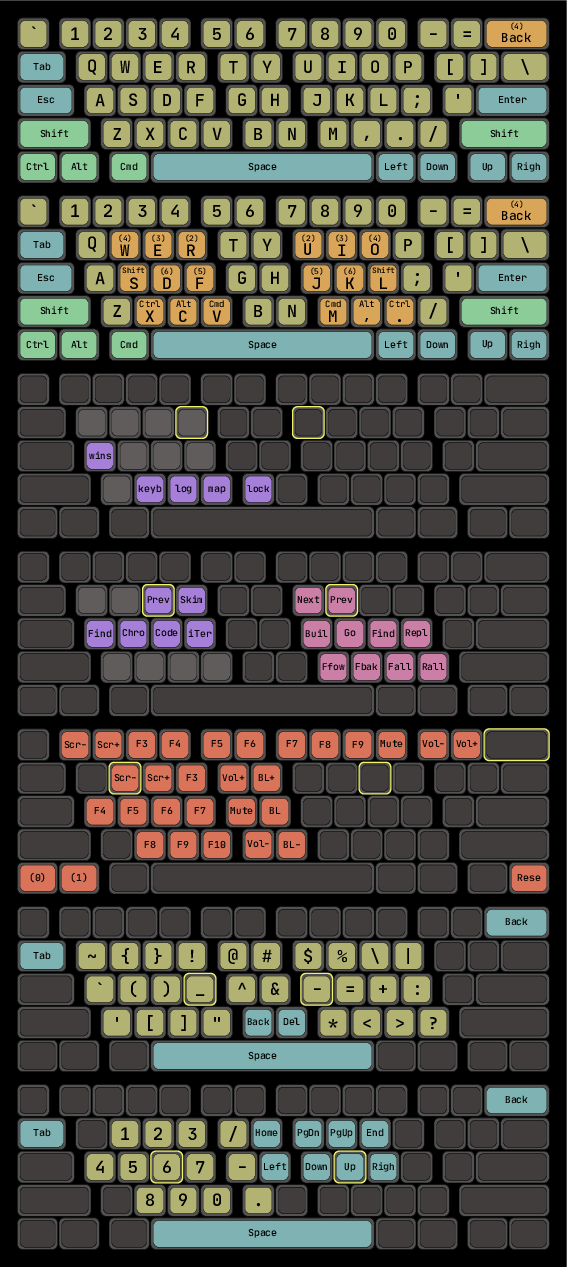
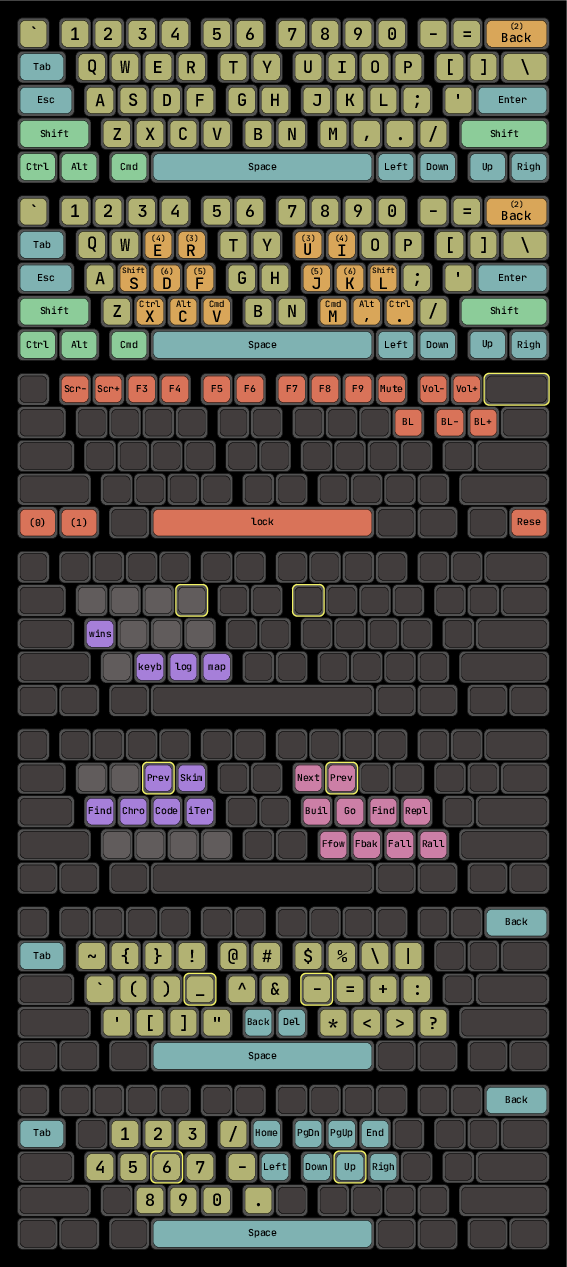
about to switch number layout

diff --git a/keyboards/fc660c/keymaps/syzygies/keymap.c b/keyboards/fc660c/keymaps/syzygies/keymap.c
@@ -5,58 +5,58 @@
 const uint16_t PROGMEM keymaps[][MATRIX_ROWS][MATRIX_COLS] = {
   // Safety
   [0] = LAYOUT(
-    KC_GRV  , KC_1       , KC_2         , KC_3         , KC_4         , KC_5        , KC_6    , KC_7          , KC_8            , KC_9           , KC_0       , KC_MINS     , KC_EQL    , LT(4,KC_BSPC) , KC__MUTE ,
-    KC_TAB  , KC_Q       , KC_W         , KC_E         , KC_R         , KC_T        , KC_Y    , KC_U          , KC_I            , KC_O           , KC_P       , KC_LBRC     , KC_RBRC   , KC_BSLS       , KC_DEL   ,
-    KC_ESC  , KC_A       , KC_S         , KC_D         , KC_F         , KC_G        , KC_H    , KC_J          , KC_K            , KC_L           , KC_SCLN    , KC_QUOT     , KC_ENT    ,
-    KC_LSFT , KC_Z       , KC_X         , KC_C         , KC_V         , KC_B        , KC_N    , KC_M          , KC_COMM         , KC_DOT         , KC_SLSH    , KC_RSFT     , KC_UP     ,
-    KC_LCTL , KC_LALT    , KC_LGUI      , KC_SPC       , KC_RGUI      , KC_RALT     , KC_RCTL , KC_LEFT       , KC_DOWN         , KC_RGHT        
+    KC_GRV  , KC_1       , KC_2         , KC_3         , KC_4         , KC_5    , KC_6    , KC_7          , KC_8            , KC_9           , KC_0       , KC_MINS     , KC_EQL    , LT(2,KC_BSPC) , KC__MUTE ,
+    KC_TAB  , KC_Q       , KC_W         , KC_E         , KC_R         , KC_T    , KC_Y    , KC_U          , KC_I            , KC_O           , KC_P       , KC_LBRC     , KC_RBRC   , KC_BSLS       , KC_DEL   ,
+    KC_ESC  , KC_A       , KC_S         , KC_D         , KC_F         , KC_G    , KC_H    , KC_J          , KC_K            , KC_L           , KC_SCLN    , KC_QUOT     , KC_ENT    ,
+    KC_LSFT , KC_Z       , KC_X         , KC_C         , KC_V         , KC_B    , KC_N    , KC_M          , KC_COMM         , KC_DOT         , KC_SLSH    , KC_RSFT     , KC_UP     ,
+    KC_LCTL , KC_LALT    , KC_LGUI      , KC_SPC       , KC_RGUI      , KC_RALT , KC_RCTL , KC_LEFT       , KC_DOWN         , KC_RGHT        
   ),
   // Base
   [1] = LAYOUT(
-    KC_GRV  , KC_1       , KC_2         , KC_3         , KC_4         , KC_5        , KC_6    , KC_7          , KC_8            , KC_9           , KC_0       , KC_MINS     , KC_EQL    , LT(4,KC_BSPC) , KC__MUTE ,
-    KC_TAB  , KC_Q       , LT(4,KC_W)   , LT(3,KC_E)   , LT(2,KC_R)   , KC_T        , KC_Y    , LT(2,KC_U)    , LT(3,KC_I)      , LT(4,KC_O)     , KC_P       , KC_LBRC     , KC_RBRC   , KC_BSLS       , KC_DEL   ,
-    KC_ESC  , KC_A       , LSFT_T(KC_S) , LT(6,KC_D)   , LT(5,KC_F)   , KC_G        , KC_H    , LT(5,KC_J)    , LT(6,KC_K)      , RSFT_T(KC_L)   , KC_SCLN    , KC_QUOT     , KC_ENT    ,
-    KC_LSFT , KC_Z       , LCTL_T(KC_X) , LALT_T(KC_C) , LGUI_T(KC_V) , KC_B        , KC_N    , RGUI_T(KC_M)  , RALT_T(KC_COMM) , RCTL_T(KC_DOT) , KC_SLSH    , KC_RSFT     , KC_UP     ,
-    KC_LCTL , KC_LALT    , KC_LGUI      , KC_SPC       , KC_RGUI      , KC_RALT     , KC_RCTL , KC_LEFT       , KC_DOWN         , KC_RGHT        
-  ),
-  // RU
-  [2] = LAYOUT(
-    XXXXXXX , XXXXXXX    , XXXXXXX      , XXXXXXX      , XXXXXXX      , XXXXXXX     , XXXXXXX , XXXXXXX       , XXXXXXX         , XXXXXXX        , XXXXXXX    , XXXXXXX     , XXXXXXX   , XXXXXXX       , XXXXXXX  ,
-    XXXXXXX , MEH(KC_Q)  , MEH(KC_W)    , MEH(KC_E)    , MEH(KC_R)    , XXXXXXX     , XXXXXXX , XXXXXXX       , XXXXXXX         , XXXXXXX        , XXXXXXX    , XXXXXXX     , XXXXXXX   , XXXXXXX       , XXXXXXX  ,
-    XXXXXXX , MEH(KC_A)  , MEH(KC_S)    , MEH(KC_D)    , MEH(KC_F)    , XXXXXXX     , XXXXXXX , XXXXXXX       , XXXXXXX         , XXXXXXX        , XXXXXXX    , XXXXXXX     , XXXXXXX   ,
-    XXXXXXX , MEH(KC_Z)  , MEH(KC_X)    , MEH(KC_C)    , MEH(KC_V)    , MEH(KC_B)   , XXXXXXX , XXXXXXX       , XXXXXXX         , XXXXXXX        , XXXXXXX    , XXXXXXX     , XXXXXXX   ,
-    XXXXXXX , XXXXXXX    , XXXXXXX      , XXXXXXX      , XXXXXXX      , XXXXXXX     , XXXXXXX , XXXXXXX       , XXXXXXX         , XXXXXXX        
-  ),
-  // EI
-  [3] = LAYOUT(
-    XXXXXXX , XXXXXXX    , XXXXXXX      , XXXXXXX      , XXXXXXX      , XXXXXXX     , XXXXXXX , XXXXXXX       , XXXXXXX         , XXXXXXX        , XXXXXXX    , XXXXXXX     , XXXXXXX   , XXXXXXX       , XXXXXXX  ,
-    XXXXXXX , HYPR(KC_Q) , HYPR(KC_W)   , HYPR(KC_E)   , HYPR(KC_R)   , XXXXXXX     , XXXXXXX , S(G(KC_RBRC)) , S(G(KC_LBRC))   , XXXXXXX        , XXXXXXX    , XXXXXXX     , XXXXXXX   , XXXXXXX       , XXXXXXX  ,
-    XXXXXXX , HYPR(KC_A) , HYPR(KC_S)   , HYPR(KC_D)   , HYPR(KC_F)   , XXXXXXX     , XXXXXXX , SCMD(KC_B)    , G(KC_P)         , G(KC_F)        , A(G(KC_F)) , XXXXXXX     , XXXXXXX   ,
-    XXXXXXX , HYPR(KC_Z) , HYPR(KC_X)   , HYPR(KC_C)   , HYPR(KC_V)   , XXXXXXX     , XXXXXXX , G(KC_G)       , S(G(KC_G))      , S(G(KC_F))     , S(G(KC_H)) , XXXXXXX     , XXXXXXX   ,
-    XXXXXXX , XXXXXXX    , XXXXXXX      , XXXXXXX      , XXXXXXX      , XXXXXXX     , XXXXXXX , XXXXXXX       , XXXXXXX         , XXXXXXX        
+    KC_GRV  , KC_1       , KC_2         , KC_3         , KC_4         , KC_5    , KC_6    , KC_7          , KC_8            , KC_9           , KC_0       , KC_MINS     , KC_EQL    , LT(2,KC_BSPC) , KC__MUTE ,
+    KC_TAB  , KC_Q       , KC_W         , LT(4,KC_E)   , LT(3,KC_R)   , KC_T    , KC_Y    , LT(3,KC_U)    , LT(4,KC_I)      , KC_O           , KC_P       , KC_LBRC     , KC_RBRC   , KC_BSLS       , KC_DEL   ,
+    KC_ESC  , KC_A       , LSFT_T(KC_S) , LT(6,KC_D)   , LT(5,KC_F)   , KC_G    , KC_H    , LT(5,KC_J)    , LT(6,KC_K)      , RSFT_T(KC_L)   , KC_SCLN    , KC_QUOT     , KC_ENT    ,
+    KC_LSFT , KC_Z       , LCTL_T(KC_X) , LALT_T(KC_C) , LGUI_T(KC_V) , KC_B    , KC_N    , RGUI_T(KC_M)  , RALT_T(KC_COMM) , RCTL_T(KC_DOT) , KC_SLSH    , KC_RSFT     , KC_UP     ,
+    KC_LCTL , KC_LALT    , KC_LGUI      , KC_SPC       , KC_RGUI      , KC_RALT , KC_RCTL , KC_LEFT       , KC_DOWN         , KC_RGHT        
   ),
   // WO
+  [2] = LAYOUT(
+    XXXXXXX , KC_F1      , KC_F2        , KC_F3        , KC_F4        , KC_F5   , KC_F6   , KC_F7         , KC_F8           , KC_F9          , KC__MUTE   , KC__VOLDOWN , KC__VOLUP , XXXXXXX       , XXXXXXX  ,
+    XXXXXXX , XXXXXXX    , XXXXXXX      , XXXXXXX      , XXXXXXX      , XXXXXXX , XXXXXXX , XXXXXXX       , XXXXXXX         , XXXXXXX        , XXXXXXX    , XXXXXXX     , XXXXXXX   , XXXXXXX       , XXXXXXX  ,
+    XXXXXXX , XXXXXXX    , XXXXXXX      , XXXXXXX      , XXXXXXX      , XXXXXXX , XXXXXXX , XXXXXXX       , XXXXXXX         , XXXXXXX        , XXXXXXX    , XXXXXXX     , XXXXXXX   ,
+    XXXXXXX , XXXXXXX    , XXXXXXX      , XXXXXXX      , XXXXXXX      , XXXXXXX , XXXXXXX , XXXXXXX       , XXXXXXX         , XXXXXXX        , XXXXXXX    , XXXXXXX     , XXXXXXX   ,
+    DF(0)   , DF(1)      , XXXXXXX      , MEH(KC_SPC)  , XXXXXXX      , XXXXXXX , XXXXXXX , XXXXXXX       , XXXXXXX         , RESET          
+  ),
+  // RU
+  [3] = LAYOUT(
+    XXXXXXX , XXXXXXX    , XXXXXXX      , XXXXXXX      , XXXXXXX      , XXXXXXX , XXXXXXX , XXXXXXX       , XXXXXXX         , XXXXXXX        , XXXXXXX    , XXXXXXX     , XXXXXXX   , XXXXXXX       , XXXXXXX  ,
+    XXXXXXX , MEH(KC_Q)  , MEH(KC_W)    , MEH(KC_E)    , MEH(KC_R)    , XXXXXXX , XXXXXXX , XXXXXXX       , XXXXXXX         , XXXXXXX        , XXXXXXX    , XXXXXXX     , XXXXXXX   , XXXXXXX       , XXXXXXX  ,
+    XXXXXXX , MEH(KC_A)  , MEH(KC_S)    , MEH(KC_D)    , MEH(KC_F)    , XXXXXXX , XXXXXXX , XXXXXXX       , XXXXXXX         , XXXXXXX        , XXXXXXX    , XXXXXXX     , XXXXXXX   ,
+    XXXXXXX , MEH(KC_Z)  , MEH(KC_X)    , MEH(KC_C)    , MEH(KC_V)    , XXXXXXX , XXXXXXX , XXXXXXX       , XXXXXXX         , XXXXXXX        , XXXXXXX    , XXXXXXX     , XXXXXXX   ,
+    XXXXXXX , XXXXXXX    , XXXXXXX      , XXXXXXX      , XXXXXXX      , XXXXXXX , XXXXXXX , XXXXXXX       , XXXXXXX         , XXXXXXX        
+  ),
+  // EI
   [4] = LAYOUT(
-    XXXXXXX , KC_F1      , KC_F2        , KC_F3        , KC_F4        , KC_F5       , KC_F6   , KC_F7         , KC_F8           , KC_F9          , KC__MUTE   , KC__VOLDOWN , KC__VOLUP , XXXXXXX       , RESET    ,
-    XXXXXXX , XXXXXXX    , KC_F1        , KC_F2        , KC_F3        , KC__VOLUP   , XXXXXXX , XXXXXXX       , XXXXXXX         , XXXXXXX        , XXXXXXX    , XXXXXXX     , XXXXXXX   , XXXXXXX       , XXXXXXX  ,
-    XXXXXXX , KC_F4      , KC_F5        , KC_F6        , KC_F7        , KC__MUTE    , XXXXXXX , XXXXXXX       , XXXXXXX         , XXXXXXX        , XXXXXXX    , XXXXXXX     , XXXXXXX   ,
-    XXXXXXX , XXXXXXX    , KC_F8        , KC_F9        , KC_F10       , KC__VOLDOWN , XXXXXXX , XXXXXXX       , XXXXXXX         , XXXXXXX        , XXXXXXX    , XXXXXXX     , XXXXXXX   ,
-    DF(0)   , DF(1)      , XXXXXXX      , XXXXXXX      , XXXXXXX      , XXXXXXX     , XXXXXXX , XXXXXXX       , XXXXXXX         , XXXXXXX        
+    XXXXXXX , XXXXXXX    , XXXXXXX      , XXXXXXX      , XXXXXXX      , XXXXXXX , XXXXXXX , XXXXXXX       , XXXXXXX         , XXXXXXX        , XXXXXXX    , XXXXXXX     , XXXXXXX   , XXXXXXX       , XXXXXXX  ,
+    XXXXXXX , HYPR(KC_Q) , HYPR(KC_W)   , HYPR(KC_E)   , HYPR(KC_R)   , XXXXXXX , XXXXXXX , S(G(KC_RBRC)) , S(G(KC_LBRC))   , XXXXXXX        , XXXXXXX    , XXXXXXX     , XXXXXXX   , XXXXXXX       , XXXXXXX  ,
+    XXXXXXX , HYPR(KC_A) , HYPR(KC_S)   , HYPR(KC_D)   , HYPR(KC_F)   , XXXXXXX , XXXXXXX , SCMD(KC_B)    , G(KC_P)         , G(KC_F)        , A(G(KC_F)) , XXXXXXX     , XXXXXXX   ,
+    XXXXXXX , HYPR(KC_Z) , HYPR(KC_X)   , HYPR(KC_C)   , HYPR(KC_V)   , XXXXXXX , XXXXXXX , G(KC_G)       , S(G(KC_G))      , S(G(KC_F))     , S(G(KC_H)) , XXXXXXX     , XXXXXXX   ,
+    XXXXXXX , XXXXXXX    , XXXXXXX      , XXXXXXX      , XXXXXXX      , XXXXXXX , XXXXXXX , XXXXXXX       , XXXXXXX         , XXXXXXX        
   ),
   // FJ
   [5] = LAYOUT(
-    XXXXXXX , XXXXXXX    , XXXXXXX      , XXXXXXX      , XXXXXXX      , XXXXXXX     , XXXXXXX , XXXXXXX       , XXXXXXX         , XXXXXXX        , XXXXXXX    , XXXXXXX     , XXXXXXX   , KC_BSPC       , XXXXXXX  ,
-    KC_TAB  , KC_TILD    , KC_LCBR      , KC_RCBR      , KC_EXLM      , KC_AT       , KC_HASH , KC_DLR        , KC_PERC         , KC_BSLS        , KC_PIPE    , XXXXXXX     , XXXXXXX   , XXXXXXX       , KC_DEL   ,
-    XXXXXXX , KC_GRV     , KC_LPRN      , KC_RPRN      , KC_UNDS      , KC_CIRC     , KC_AMPR , KC_MINS       , KC_EQL          , KC_PLUS        , KC_COLN    , XXXXXXX     , XXXXXXX   ,
-    XXXXXXX , KC_QUOT    , KC_LBRC      , KC_RBRC      , KC_DQUO      , KC_BSPC     , KC_DEL  , KC_ASTR       , KC_LT           , KC_GT          , KC_QUES    , XXXXXXX     , XXXXXXX   ,
-    XXXXXXX , XXXXXXX    , XXXXXXX      , KC_SPC       , XXXXXXX      , XXXXXXX     , XXXXXXX , XXXXXXX       , XXXXXXX         , XXXXXXX        
+    XXXXXXX , XXXXXXX    , XXXXXXX      , XXXXXXX      , XXXXXXX      , XXXXXXX , XXXXXXX , XXXXXXX       , XXXXXXX         , XXXXXXX        , XXXXXXX    , XXXXXXX     , XXXXXXX   , KC_BSPC       , XXXXXXX  ,
+    KC_TAB  , KC_TILD    , KC_LCBR      , KC_RCBR      , KC_EXLM      , KC_AT   , KC_HASH , KC_DLR        , KC_PERC         , KC_BSLS        , KC_PIPE    , XXXXXXX     , XXXXXXX   , XXXXXXX       , KC_DEL   ,
+    XXXXXXX , KC_GRV     , KC_LPRN      , KC_RPRN      , KC_UNDS      , KC_CIRC , KC_AMPR , KC_MINS       , KC_EQL          , KC_PLUS        , KC_COLN    , XXXXXXX     , XXXXXXX   ,
+    XXXXXXX , KC_QUOT    , KC_LBRC      , KC_RBRC      , KC_DQUO      , KC_BSPC , KC_DEL  , KC_ASTR       , KC_LT           , KC_GT          , KC_QUES    , XXXXXXX     , XXXXXXX   ,
+    XXXXXXX , XXXXXXX    , XXXXXXX      , KC_SPC       , XXXXXXX      , XXXXXXX , XXXXXXX , XXXXXXX       , XXXXXXX         , XXXXXXX        
   ),
   // DK
   [6] = LAYOUT(
-    XXXXXXX , XXXXXXX    , XXXXXXX      , XXXXXXX      , XXXXXXX      , XXXXXXX     , XXXXXXX , XXXXXXX       , XXXXXXX         , XXXXXXX        , XXXXXXX    , XXXXXXX     , XXXXXXX   , KC_BSPC       , XXXXXXX  ,
-    KC_TAB  , XXXXXXX    , KC_1         , KC_2         , KC_3         , KC_SLSH     , KC_HOME , KC_PGDOWN     , KC_PGUP         , KC_END         , XXXXXXX    , XXXXXXX     , XXXXXXX   , XXXXXXX       , KC_DEL   ,
-    XXXXXXX , KC_4       , KC_5         , KC_6         , KC_7         , KC_MINS     , KC_LEFT , KC_DOWN       , KC_UP           , KC_RGHT        , XXXXXXX    , XXXXXXX     , XXXXXXX   ,
-    XXXXXXX , XXXXXXX    , KC_8         , KC_9         , KC_0         , KC_DOT      , XXXXXXX , XXXXXXX       , XXXXXXX         , XXXXXXX        , XXXXXXX    , XXXXXXX     , XXXXXXX   ,
-    XXXXXXX , XXXXXXX    , XXXXXXX      , KC_SPC       , XXXXXXX      , XXXXXXX     , XXXXXXX , XXXXXXX       , XXXXXXX         , XXXXXXX        
+    XXXXXXX , XXXXXXX    , XXXXXXX      , XXXXXXX      , XXXXXXX      , XXXXXXX , XXXXXXX , XXXXXXX       , XXXXXXX         , XXXXXXX        , XXXXXXX    , XXXXXXX     , XXXXXXX   , KC_BSPC       , XXXXXXX  ,
+    KC_TAB  , XXXXXXX    , KC_1         , KC_2         , KC_3         , KC_SLSH , KC_HOME , KC_PGDOWN     , KC_PGUP         , KC_END         , XXXXXXX    , XXXXXXX     , XXXXXXX   , XXXXXXX       , KC_DEL   ,
+    XXXXXXX , KC_4       , KC_5         , KC_6         , KC_7         , KC_MINS , KC_LEFT , KC_DOWN       , KC_UP           , KC_RGHT        , XXXXXXX    , XXXXXXX     , XXXXXXX   ,
+    XXXXXXX , XXXXXXX    , KC_8         , KC_9         , KC_0         , KC_DOT  , XXXXXXX , XXXXXXX       , XXXXXXX         , XXXXXXX        , XXXXXXX    , XXXXXXX     , XXXXXXX   ,
+    XXXXXXX , XXXXXXX    , XXXXXXX      , KC_SPC       , XXXXXXX      , XXXXXXX , XXXXXXX , XXXXXXX       , XXXXXXX         , XXXXXXX        
   )
 };

diff --git a/keyboards/dz60/keymaps/syzygies/keymap.c b/keyboards/dz60/keymaps/syzygies/keymap.c
@@ -5,58 +5,58 @@
 const uint16_t PROGMEM keymaps[][MATRIX_ROWS][MATRIX_COLS] = {
   // Safety
   [0] = LAYOUT_60_ansi(
-    KC_GRV  , KC_1       , KC_2         , KC_3         , KC_4         , KC_5        , KC_6    , KC_7          , KC_8            , KC_9           , KC_0       , KC_MINS     , KC_EQL    , LT(4,KC_BSPC) ,
-    KC_TAB  , KC_Q       , KC_W         , KC_E         , KC_R         , KC_T        , KC_Y    , KC_U          , KC_I            , KC_O           , KC_P       , KC_LBRC     , KC_RBRC   , KC_BSLS       ,
-    KC_ESC  , KC_A       , KC_S         , KC_D         , KC_F         , KC_G        , KC_H    , KC_J          , KC_K            , KC_L           , KC_SCLN    , KC_QUOT     , KC_ENT    ,
-    KC_LSFT , KC_Z       , KC_X         , KC_C         , KC_V         , KC_B        , KC_N    , KC_M          , KC_COMM         , KC_DOT         , KC_SLSH    , KC_RSFT     ,
-    KC_LCTL , KC_LALT    , KC_LGUI      , KC_SPC       , KC_LEFT      , KC_DOWN     , KC_UP   , KC_RGHT       
+    KC_GRV  , KC_1       , KC_2         , KC_3         , KC_4         , KC_5    , KC_6    , KC_7          , KC_8            , KC_9           , KC_0       , KC_MINS     , KC_EQL    , LT(4,KC_BSPC) ,
+    KC_TAB  , KC_Q       , KC_W         , KC_E         , KC_R         , KC_T    , KC_Y    , KC_U          , KC_I            , KC_O           , KC_P       , KC_LBRC     , KC_RBRC   , KC_BSLS       ,
+    KC_ESC  , KC_A       , KC_S         , KC_D         , KC_F         , KC_G    , KC_H    , KC_J          , KC_K            , KC_L           , KC_SCLN    , KC_QUOT     , KC_ENT    ,
+    KC_LSFT , KC_Z       , KC_X         , KC_C         , KC_V         , KC_B    , KC_N    , KC_M          , KC_COMM         , KC_DOT         , KC_SLSH    , KC_RSFT     ,
+    KC_LCTL , KC_LALT    , KC_LGUI      , KC_SPC       , KC_LEFT      , KC_DOWN , KC_UP   , KC_RGHT       
   ),
   // Base
   [1] = LAYOUT_60_ansi(
-    KC_GRV  , KC_1       , KC_2         , KC_3         , KC_4         , KC_5        , KC_6    , KC_7          , KC_8            , KC_9           , KC_0       , KC_MINS     , KC_EQL    , LT(4,KC_BSPC) ,
-    KC_TAB  , KC_Q       , LT(4,KC_W)   , LT(3,KC_E)   , LT(2,KC_R)   , KC_T        , KC_Y    , LT(2,KC_U)    , LT(3,KC_I)      , LT(4,KC_O)     , KC_P       , KC_LBRC     , KC_RBRC   , KC_BSLS       ,
-    KC_ESC  , KC_A       , LSFT_T(KC_S) , LT(6,KC_D)   , LT(5,KC_F)   , KC_G        , KC_H    , LT(5,KC_J)    , LT(6,KC_K)      , RSFT_T(KC_L)   , KC_SCLN    , KC_QUOT     , KC_ENT    ,
-    KC_LSFT , KC_Z       , LCTL_T(KC_X) , LALT_T(KC_C) , LGUI_T(KC_V) , KC_B        , KC_N    , RGUI_T(KC_M)  , RALT_T(KC_COMM) , RCTL_T(KC_DOT) , KC_SLSH    , KC_RSFT     ,
-    KC_LCTL , KC_LALT    , KC_LGUI      , KC_SPC       , KC_LEFT      , KC_DOWN     , KC_UP   , KC_RGHT       
+    KC_GRV  , KC_1       , KC_2         , KC_3         , KC_4         , KC_5    , KC_6    , KC_7          , KC_8            , KC_9           , KC_0       , KC_MINS     , KC_EQL    , LT(4,KC_BSPC) ,
+    KC_TAB  , KC_Q       , KC_W         , LT(3,KC_E)   , LT(2,KC_R)   , KC_T    , KC_Y    , LT(2,KC_U)    , LT(3,KC_I)      , KC_O           , KC_P       , KC_LBRC     , KC_RBRC   , KC_BSLS       ,
+    KC_ESC  , KC_A       , LSFT_T(KC_S) , LT(6,KC_D)   , LT(5,KC_F)   , KC_G    , KC_H    , LT(5,KC_J)    , LT(6,KC_K)      , RSFT_T(KC_L)   , KC_SCLN    , KC_QUOT     , KC_ENT    ,
+    KC_LSFT , KC_Z       , LCTL_T(KC_X) , LALT_T(KC_C) , LGUI_T(KC_V) , KC_B    , KC_N    , RGUI_T(KC_M)  , RALT_T(KC_COMM) , RCTL_T(KC_DOT) , KC_SLSH    , KC_RSFT     ,
+    KC_LCTL , KC_LALT    , KC_LGUI      , KC_SPC       , KC_LEFT      , KC_DOWN , KC_UP   , KC_RGHT       
   ),
   // RU
   [2] = LAYOUT_60_ansi(
-    XXXXXXX , XXXXXXX    , XXXXXXX      , XXXXXXX      , XXXXXXX      , XXXXXXX     , XXXXXXX , XXXXXXX       , XXXXXXX         , XXXXXXX        , XXXXXXX    , XXXXXXX     , XXXXXXX   , XXXXXXX       ,
-    XXXXXXX , MEH(KC_Q)  , MEH(KC_W)    , MEH(KC_E)    , MEH(KC_R)    , XXXXXXX     , XXXXXXX , XXXXXXX       , XXXXXXX         , XXXXXXX        , XXXXXXX    , XXXXXXX     , XXXXXXX   , XXXXXXX       ,
-    XXXXXXX , MEH(KC_A)  , MEH(KC_S)    , MEH(KC_D)    , MEH(KC_F)    , XXXXXXX     , XXXXXXX , XXXXXXX       , XXXXXXX         , XXXXXXX        , XXXXXXX    , XXXXXXX     , XXXXXXX   ,
-    XXXXXXX , MEH(KC_Z)  , MEH(KC_X)    , MEH(KC_C)    , MEH(KC_V)    , MEH(KC_B)   , XXXXXXX , XXXXXXX       , XXXXXXX         , XXXXXXX        , XXXXXXX    , XXXXXXX     ,
-    XXXXXXX , XXXXXXX    , XXXXXXX      , XXXXXXX      , XXXXXXX      , XXXXXXX     , XXXXXXX , XXXXXXX       
+    XXXXXXX , XXXXXXX    , XXXXXXX      , XXXXXXX      , XXXXXXX      , XXXXXXX , XXXXXXX , XXXXXXX       , XXXXXXX         , XXXXXXX        , XXXXXXX    , XXXXXXX     , XXXXXXX   , XXXXXXX       ,
+    XXXXXXX , MEH(KC_Q)  , MEH(KC_W)    , MEH(KC_E)    , MEH(KC_R)    , XXXXXXX , XXXXXXX , XXXXXXX       , XXXXXXX         , XXXXXXX        , XXXXXXX    , XXXXXXX     , XXXXXXX   , XXXXXXX       ,
+    XXXXXXX , MEH(KC_A)  , MEH(KC_S)    , MEH(KC_D)    , MEH(KC_F)    , XXXXXXX , XXXXXXX , XXXXXXX       , XXXXXXX         , XXXXXXX        , XXXXXXX    , XXXXXXX     , XXXXXXX   ,
+    XXXXXXX , MEH(KC_Z)  , MEH(KC_X)    , MEH(KC_C)    , MEH(KC_V)    , XXXXXXX , XXXXXXX , XXXXXXX       , XXXXXXX         , XXXXXXX        , XXXXXXX    , XXXXXXX     ,
+    XXXXXXX , XXXXXXX    , XXXXXXX      , XXXXXXX      , XXXXXXX      , XXXXXXX , XXXXXXX , XXXXXXX       
   ),
   // EI
   [3] = LAYOUT_60_ansi(
-    XXXXXXX , XXXXXXX    , XXXXXXX      , XXXXXXX      , XXXXXXX      , XXXXXXX     , XXXXXXX , XXXXXXX       , XXXXXXX         , XXXXXXX        , XXXXXXX    , XXXXXXX     , XXXXXXX   , XXXXXXX       ,
-    XXXXXXX , HYPR(KC_Q) , HYPR(KC_W)   , HYPR(KC_E)   , HYPR(KC_R)   , XXXXXXX     , XXXXXXX , S(G(KC_RBRC)) , S(G(KC_LBRC))   , XXXXXXX        , XXXXXXX    , XXXXXXX     , XXXXXXX   , XXXXXXX       ,
-    XXXXXXX , HYPR(KC_A) , HYPR(KC_S)   , HYPR(KC_D)   , HYPR(KC_F)   , XXXXXXX     , XXXXXXX , SCMD(KC_B)    , G(KC_P)         , G(KC_F)        , A(G(KC_F)) , XXXXXXX     , XXXXXXX   ,
-    XXXXXXX , HYPR(KC_Z) , HYPR(KC_X)   , HYPR(KC_C)   , HYPR(KC_V)   , XXXXXXX     , XXXXXXX , G(KC_G)       , S(G(KC_G))      , S(G(KC_F))     , S(G(KC_H)) , XXXXXXX     ,
-    XXXXXXX , XXXXXXX    , XXXXXXX      , XXXXXXX      , XXXXXXX      , XXXXXXX     , XXXXXXX , XXXXXXX       
+    XXXXXXX , XXXXXXX    , XXXXXXX      , XXXXXXX      , XXXXXXX      , XXXXXXX , XXXXXXX , XXXXXXX       , XXXXXXX         , XXXXXXX        , XXXXXXX    , XXXXXXX     , XXXXXXX   , XXXXXXX       ,
+    XXXXXXX , HYPR(KC_Q) , HYPR(KC_W)   , HYPR(KC_E)   , HYPR(KC_R)   , XXXXXXX , XXXXXXX , S(G(KC_RBRC)) , S(G(KC_LBRC))   , XXXXXXX        , XXXXXXX    , XXXXXXX     , XXXXXXX   , XXXXXXX       ,
+    XXXXXXX , HYPR(KC_A) , HYPR(KC_S)   , HYPR(KC_D)   , HYPR(KC_F)   , XXXXXXX , XXXXXXX , SCMD(KC_B)    , G(KC_P)         , G(KC_F)        , A(G(KC_F)) , XXXXXXX     , XXXXXXX   ,
+    XXXXXXX , HYPR(KC_Z) , HYPR(KC_X)   , HYPR(KC_C)   , HYPR(KC_V)   , XXXXXXX , XXXXXXX , G(KC_G)       , S(G(KC_G))      , S(G(KC_F))     , S(G(KC_H)) , XXXXXXX     ,
+    XXXXXXX , XXXXXXX    , XXXXXXX      , XXXXXXX      , XXXXXXX      , XXXXXXX , XXXXXXX , XXXXXXX       
   ),
   // WO
   [4] = LAYOUT_60_ansi(
-    XXXXXXX , KC_F1      , KC_F2        , KC_F3        , KC_F4        , KC_F5       , KC_F6   , KC_F7         , KC_F8           , KC_F9          , KC__MUTE   , KC__VOLDOWN , KC__VOLUP , XXXXXXX       ,
-    XXXXXXX , XXXXXXX    , KC_F1        , KC_F2        , KC_F3        , KC__VOLUP   , BL_INC  , XXXXXXX       , XXXXXXX         , XXXXXXX        , XXXXXXX    , XXXXXXX     , XXXXXXX   , XXXXXXX       ,
-    XXXXXXX , KC_F4      , KC_F5        , KC_F6        , KC_F7        , KC__MUTE    , BL_TOGG , XXXXXXX       , XXXXXXX         , XXXXXXX        , XXXXXXX    , XXXXXXX     , XXXXXXX   ,
-    XXXXXXX , XXXXXXX    , KC_F8        , KC_F9        , KC_F10       , KC__VOLDOWN , BL_DEC  , XXXXXXX       , XXXXXXX         , XXXXXXX        , XXXXXXX    , XXXXXXX     ,
-    DF(0)   , DF(1)      , XXXXXXX      , XXXXXXX      , XXXXXXX      , XXXXXXX     , XXXXXXX , RESET         
+    XXXXXXX , KC_F1      , KC_F2        , KC_F3        , KC_F4        , KC_F5   , KC_F6   , KC_F7         , KC_F8           , KC_F9          , KC__MUTE   , KC__VOLDOWN , KC__VOLUP , XXXXXXX       ,
+    XXXXXXX , XXXXXXX    , XXXXXXX      , XXXXXXX      , XXXXXXX      , XXXXXXX , XXXXXXX , XXXXXXX       , XXXXXXX         , XXXXXXX        , BL_TOGG    , BL_DEC      , BL_INC    , XXXXXXX       ,
+    XXXXXXX , XXXXXXX    , XXXXXXX      , XXXXXXX      , XXXXXXX      , XXXXXXX , XXXXXXX , XXXXXXX       , XXXXXXX         , XXXXXXX        , XXXXXXX    , XXXXXXX     , XXXXXXX   ,
+    XXXXXXX , XXXXXXX    , XXXXXXX      , XXXXXXX      , XXXXXXX      , XXXXXXX , XXXXXXX , XXXXXXX       , XXXXXXX         , XXXXXXX        , XXXXXXX    , XXXXXXX     ,
+    DF(0)   , DF(1)      , XXXXXXX      , MEH(KC_SPC)  , XXXXXXX      , XXXXXXX , XXXXXXX , RESET         
   ),
   // FJ
   [5] = LAYOUT_60_ansi(
-    XXXXXXX , XXXXXXX    , XXXXXXX      , XXXXXXX      , XXXXXXX      , XXXXXXX     , XXXXXXX , XXXXXXX       , XXXXXXX         , XXXXXXX        , XXXXXXX    , XXXXXXX     , XXXXXXX   , KC_BSPC       ,
-    KC_TAB  , KC_TILD    , KC_LCBR      , KC_RCBR      , KC_EXLM      , KC_AT       , KC_HASH , KC_DLR        , KC_PERC         , KC_BSLS        , KC_PIPE    , XXXXXXX     , XXXXXXX   , XXXXXXX       ,
-    XXXXXXX , KC_GRV     , KC_LPRN      , KC_RPRN      , KC_UNDS      , KC_CIRC     , KC_AMPR , KC_MINS       , KC_EQL          , KC_PLUS        , KC_COLN    , XXXXXXX     , XXXXXXX   ,
-    XXXXXXX , KC_QUOT    , KC_LBRC      , KC_RBRC      , KC_DQUO      , KC_BSPC     , KC_DEL  , KC_ASTR       , KC_LT           , KC_GT          , KC_QUES    , XXXXXXX     ,
-    XXXXXXX , XXXXXXX    , XXXXXXX      , KC_SPC       , XXXXXXX      , XXXXXXX     , XXXXXXX , XXXXXXX       
+    XXXXXXX , XXXXXXX    , XXXXXXX      , XXXXXXX      , XXXXXXX      , XXXXXXX , XXXXXXX , XXXXXXX       , XXXXXXX         , XXXXXXX        , XXXXXXX    , XXXXXXX     , XXXXXXX   , KC_BSPC       ,
+    KC_TAB  , KC_TILD    , KC_LCBR      , KC_RCBR      , KC_EXLM      , KC_AT   , KC_HASH , KC_DLR        , KC_PERC         , KC_BSLS        , KC_PIPE    , XXXXXXX     , XXXXXXX   , XXXXXXX       ,
+    XXXXXXX , KC_GRV     , KC_LPRN      , KC_RPRN      , KC_UNDS      , KC_CIRC , KC_AMPR , KC_MINS       , KC_EQL          , KC_PLUS        , KC_COLN    , XXXXXXX     , XXXXXXX   ,
+    XXXXXXX , KC_QUOT    , KC_LBRC      , KC_RBRC      , KC_DQUO      , KC_BSPC , KC_DEL  , KC_ASTR       , KC_LT           , KC_GT          , KC_QUES    , XXXXXXX     ,
+    XXXXXXX , XXXXXXX    , XXXXXXX      , KC_SPC       , XXXXXXX      , XXXXXXX , XXXXXXX , XXXXXXX       
   ),
   // DK
   [6] = LAYOUT_60_ansi(
-    XXXXXXX , XXXXXXX    , XXXXXXX      , XXXXXXX      , XXXXXXX      , XXXXXXX     , XXXXXXX , XXXXXXX       , XXXXXXX         , XXXXXXX        , XXXXXXX    , XXXXXXX     , XXXXXXX   , KC_BSPC       ,
-    KC_TAB  , XXXXXXX    , KC_1         , KC_2         , KC_3         , KC_SLSH     , KC_HOME , KC_PGDOWN     , KC_PGUP         , KC_END         , XXXXXXX    , XXXXXXX     , XXXXXXX   , XXXXXXX       ,
-    XXXXXXX , KC_4       , KC_5         , KC_6         , KC_7         , KC_MINS     , KC_LEFT , KC_DOWN       , KC_UP           , KC_RGHT        , XXXXXXX    , XXXXXXX     , XXXXXXX   ,
-    XXXXXXX , XXXXXXX    , KC_8         , KC_9         , KC_0         , KC_DOT      , XXXXXXX , XXXXXXX       , XXXXXXX         , XXXXXXX        , XXXXXXX    , XXXXXXX     ,
-    XXXXXXX , XXXXXXX    , XXXXXXX      , KC_SPC       , XXXXXXX      , XXXXXXX     , XXXXXXX , XXXXXXX       
+    XXXXXXX , XXXXXXX    , XXXXXXX      , XXXXXXX      , XXXXXXX      , XXXXXXX , XXXXXXX , XXXXXXX       , XXXXXXX         , XXXXXXX        , XXXXXXX    , XXXXXXX     , XXXXXXX   , KC_BSPC       ,
+    KC_TAB  , XXXXXXX    , KC_1         , KC_2         , KC_3         , KC_SLSH , KC_HOME , KC_PGDOWN     , KC_PGUP         , KC_END         , XXXXXXX    , XXXXXXX     , XXXXXXX   , XXXXXXX       ,
+    XXXXXXX , KC_4       , KC_5         , KC_6         , KC_7         , KC_MINS , KC_LEFT , KC_DOWN       , KC_UP           , KC_RGHT        , XXXXXXX    , XXXXXXX     , XXXXXXX   ,
+    XXXXXXX , XXXXXXX    , KC_8         , KC_9         , KC_0         , KC_DOT  , XXXXXXX , XXXXXXX       , XXXXXXX         , XXXXXXX        , XXXXXXX    , XXXXXXX     ,
+    XXXXXXX , XXXXXXX    , XXXXXXX      , KC_SPC       , XXXXXXX      , XXXXXXX , XXXXXXX , XXXXXXX       
   )
 };

diff --git a/keyboards/planck/keymaps/syzygies/keymap.c b/keyboards/planck/keymaps/syzygies/keymap.c
@@ -1,0 +1,55 @@
+// Copyright 2020 Dave Bayer davebayer@mac.com @Syzygies <https://unlicense.org>
+
+#include QMK_KEYBOARD_H
+
+const uint16_t PROGMEM keymaps[][MATRIX_ROWS][MATRIX_COLS] = {
+  // Safety
+  [0] = LAYOUT_planck_mit(
+    KC_TAB  , KC_Q       , KC_W         , KC_E         , KC_R         , KC_T        , KC_Y    , KC_U          , KC_I            , KC_O           , KC_P       , LT(2,KC_BSPC) ,
+    KC_ESC  , KC_A       , KC_S         , KC_D         , KC_F         , KC_G        , KC_H    , KC_J          , KC_K            , KC_L           , KC_SCLN    , KC_ENT        ,
+    KC_LSFT , KC_Z       , KC_X         , KC_C         , KC_V         , KC_B        , KC_N    , KC_M          , KC_COMM         , KC_DOT         , KC_SLSH    , KC_RSFT       ,
+    XXXXXXX , KC_LCTL    , KC_LALT      , KC_LGUI      , XXXXXXX      , KC_SPC      , XXXXXXX , KC_LEFT       , KC_DOWN         , KC_UP          , KC_RGHT    
+  ),
+  // Base
+  [1] = LAYOUT_planck_mit(
+    KC_TAB  , KC_Q       , KC_W         , LT(4,KC_E)   , LT(3,KC_R)   , KC_T        , KC_Y    , LT(3,KC_U)    , LT(4,KC_I)      , KC_O           , KC_P       , LT(2,KC_BSPC) ,
+    KC_ESC  , KC_A       , LSFT_T(KC_S) , LT(6,KC_D)   , LT(5,KC_F)   , KC_G        , KC_H    , LT(5,KC_J)    , LT(6,KC_K)      , RSFT_T(KC_L)   , KC_SCLN    , KC_ENT        ,
+    KC_LSFT , KC_Z       , LCTL_T(KC_X) , LALT_T(KC_C) , LGUI_T(KC_V) , KC_B        , KC_N    , RGUI_T(KC_M)  , RALT_T(KC_COMM) , RCTL_T(KC_DOT) , KC_SLSH    , KC_RSFT       ,
+    XXXXXXX , KC_LCTL    , KC_LALT      , KC_LGUI      , XXXXXXX      , KC_SPC      , XXXXXXX , KC_LEFT       , KC_DOWN         , KC_UP          , KC_RGHT    
+  ),
+  // Backspace
+  [2] = LAYOUT_planck_mit(
+    XXXXXXX , KC_F1      , KC_F2        , KC_F3        , KC_F4        , KC_F5       , KC_F6   , KC_F7         , KC__MUTE        , KC__VOLDOWN    , KC__VOLUP  , XXXXXXX       ,
+    XXXXXXX , XXXXXXX    , XXXXXXX      , XXXXXXX      , XXXXXXX      , XXXXXXX     , XXXXXXX , XXXXXXX       , RGB_TOG         , BL_DEC         , BL_INC     , XXXXXXX       ,
+    XXXXXXX , XXXXXXX    , XXXXXXX      , XXXXXXX      , XXXXXXX      , XXXXXXX     , XXXXXXX , XXXXXXX       , XXXXXXX         , XXXXXXX        , XXXXXXX    , XXXXXXX       ,
+    DF(0)   , DF(1)      , XXXXXXX      , XXXXXXX      , XXXXXXX      , MEH(KC_SPC) , XXXXXXX , XXXXXXX       , XXXXXXX         , XXXXXXX        , RESET      
+  ),
+  // RU
+  [3] = LAYOUT_planck_mit(
+    XXXXXXX , MEH(KC_Q)  , MEH(KC_W)    , MEH(KC_E)    , MEH(KC_R)    , XXXXXXX     , XXXXXXX , XXXXXXX       , XXXXXXX         , XXXXXXX        , XXXXXXX    , XXXXXXX       ,
+    XXXXXXX , MEH(KC_A)  , MEH(KC_S)    , MEH(KC_D)    , MEH(KC_F)    , XXXXXXX     , XXXXXXX , XXXXXXX       , XXXXXXX         , XXXXXXX        , XXXXXXX    , XXXXXXX       ,
+    XXXXXXX , MEH(KC_Z)  , MEH(KC_X)    , MEH(KC_C)    , MEH(KC_V)    , XXXXXXX     , XXXXXXX , XXXXXXX       , XXXXXXX         , XXXXXXX        , XXXXXXX    , XXXXXXX       ,
+    XXXXXXX , XXXXXXX    , XXXXXXX      , XXXXXXX      , XXXXXXX      , XXXXXXX     , XXXXXXX , XXXXXXX       , XXXXXXX         , XXXXXXX        , XXXXXXX    
+  ),
+  // EI
+  [4] = LAYOUT_planck_mit(
+    XXXXXXX , HYPR(KC_Q) , HYPR(KC_W)   , HYPR(KC_E)   , HYPR(KC_R)   , XXXXXXX     , XXXXXXX , S(G(KC_RBRC)) , S(G(KC_LBRC))   , XXXXXXX        , XXXXXXX    , XXXXXXX       ,
+    XXXXXXX , HYPR(KC_A) , HYPR(KC_S)   , HYPR(KC_D)   , HYPR(KC_F)   , XXXXXXX     , XXXXXXX , SCMD(KC_B)    , G(KC_P)         , G(KC_F)        , A(G(KC_F)) , XXXXXXX       ,
+    XXXXXXX , HYPR(KC_Z) , HYPR(KC_X)   , HYPR(KC_C)   , HYPR(KC_V)   , XXXXXXX     , XXXXXXX , G(KC_G)       , S(G(KC_G))      , S(G(KC_F))     , S(G(KC_H)) , XXXXXXX       ,
+    XXXXXXX , XXXXXXX    , XXXXXXX      , XXXXXXX      , XXXXXXX      , XXXXXXX     , XXXXXXX , XXXXXXX       , XXXXXXX         , XXXXXXX        , XXXXXXX    
+  ),
+  // FJ
+  [5] = LAYOUT_planck_mit(
+    KC_TAB  , KC_TILD    , KC_LCBR      , KC_RCBR      , KC_EXLM      , KC_AT       , KC_HASH , KC_DLR        , KC_PERC         , KC_BSLS        , KC_PIPE    , XXXXXXX       ,
+    XXXXXXX , KC_GRV     , KC_LPRN      , KC_RPRN      , KC_UNDS      , KC_CIRC     , KC_AMPR , KC_MINS       , KC_EQL          , KC_PLUS        , KC_COLN    , XXXXXXX       ,
+    XXXXXXX , KC_QUOT    , KC_LBRC      , KC_RBRC      , KC_DQUO      , KC_BSPC     , KC_DEL  , KC_ASTR       , KC_LT           , KC_GT          , KC_QUES    , XXXXXXX       ,
+    XXXXXXX , XXXXXXX    , XXXXXXX      , XXXXXXX      , XXXXXXX      , KC_SPC      , XXXXXXX , XXXXXXX       , XXXXXXX         , XXXXXXX        , XXXXXXX    
+  ),
+  // DK
+  [6] = LAYOUT_planck_mit(
+    KC_TAB  , XXXXXXX    , KC_1         , KC_2         , KC_3         , KC_SLSH     , KC_HOME , KC_PGDOWN     , KC_PGUP         , KC_END         , XXXXXXX    , XXXXXXX       ,
+    XXXXXXX , KC_4       , KC_5         , KC_6         , KC_7         , KC_MINS     , KC_LEFT , KC_DOWN       , KC_UP           , KC_RGHT        , XXXXXXX    , XXXXXXX       ,
+    XXXXXXX , XXXXXXX    , KC_8         , KC_9         , KC_0         , KC_DOT      , XXXXXXX , XXXXXXX       , XXXXXXX         , XXXXXXX        , XXXXXXX    , XXXXXXX       ,
+    XXXXXXX , XXXXXXX    , XXXXXXX      , XXXXXXX      , XXXXXXX      , KC_SPC      , XXXXXXX , XXXXXXX       , XXXXXXX         , XXXXXXX        , XXXXXXX    
+  )
+};

diff --git a/keyboards/planck/keymaps/syzygies/config.h b/keyboards/planck/keymaps/syzygies/config.h
@@ -1,0 +1,12 @@
+// Copyright 2020 Dave Bayer davebayer@mac.com @Syzygies <https://unlicense.org>
+
+#pragma once
+
+#undef TAPPING_TERM
+#define TAPPING_TERM 300
+#define RETRO_TAPPING
+#define IGNORE_MOD_TAP_INTERRUPT
+#define ORYX_CONFIGURATOR
+#define PLANCK_EZ_LED_LOWER 5
+#define PLANCK_EZ_LED_RAISE 6
+#define PLANCK_EZ_LED_ADJUST 2

diff --git a/keyboards/planck/keymaps/syzygies/readme.md b/keyboards/planck/keymaps/syzygies/readme.md
@@ -1,0 +1,3 @@
+# Dave Bayer's keymap for the planck
+
+![layout](keymap.png)
